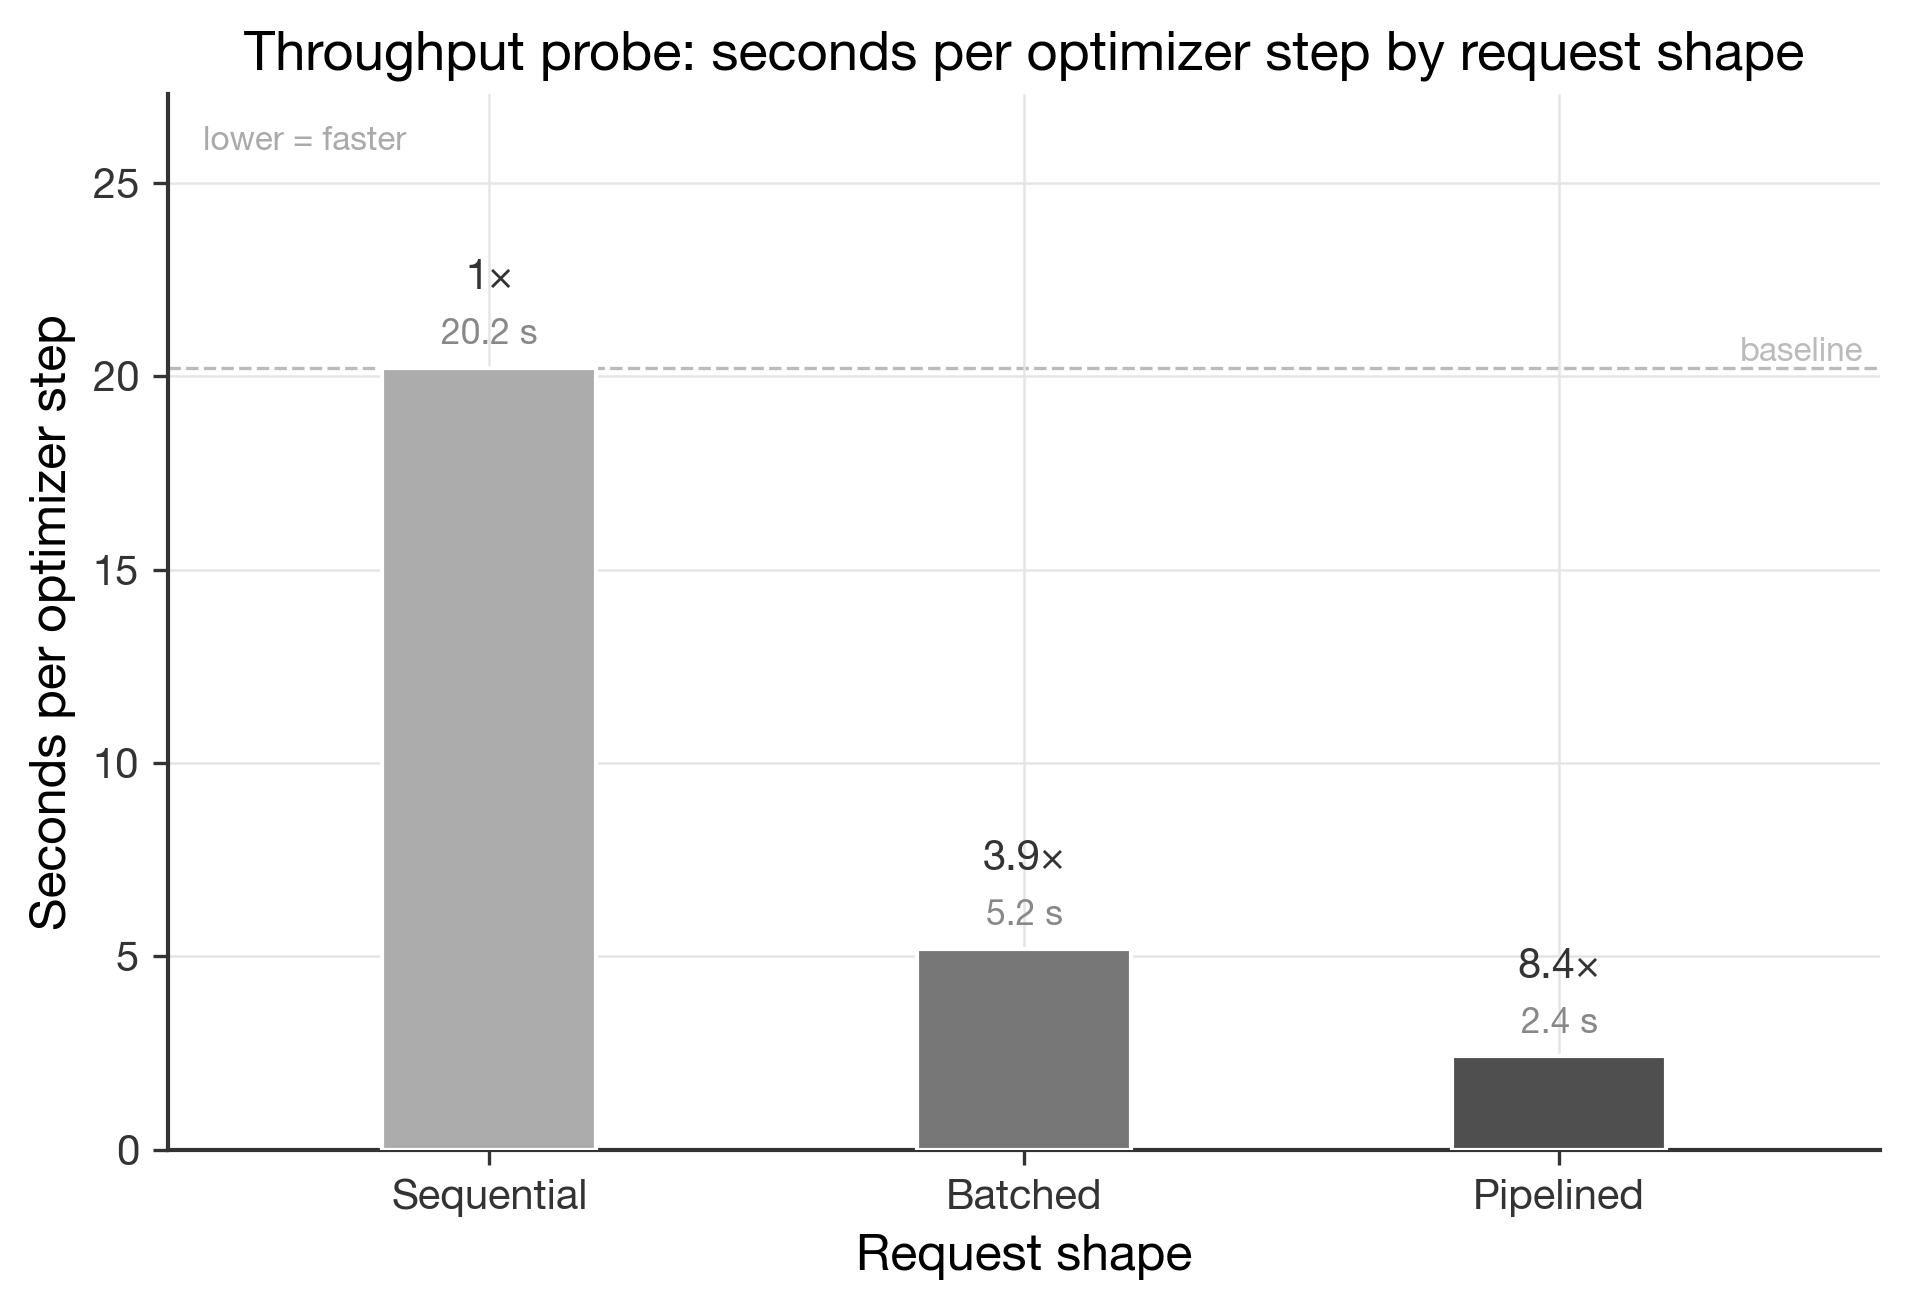
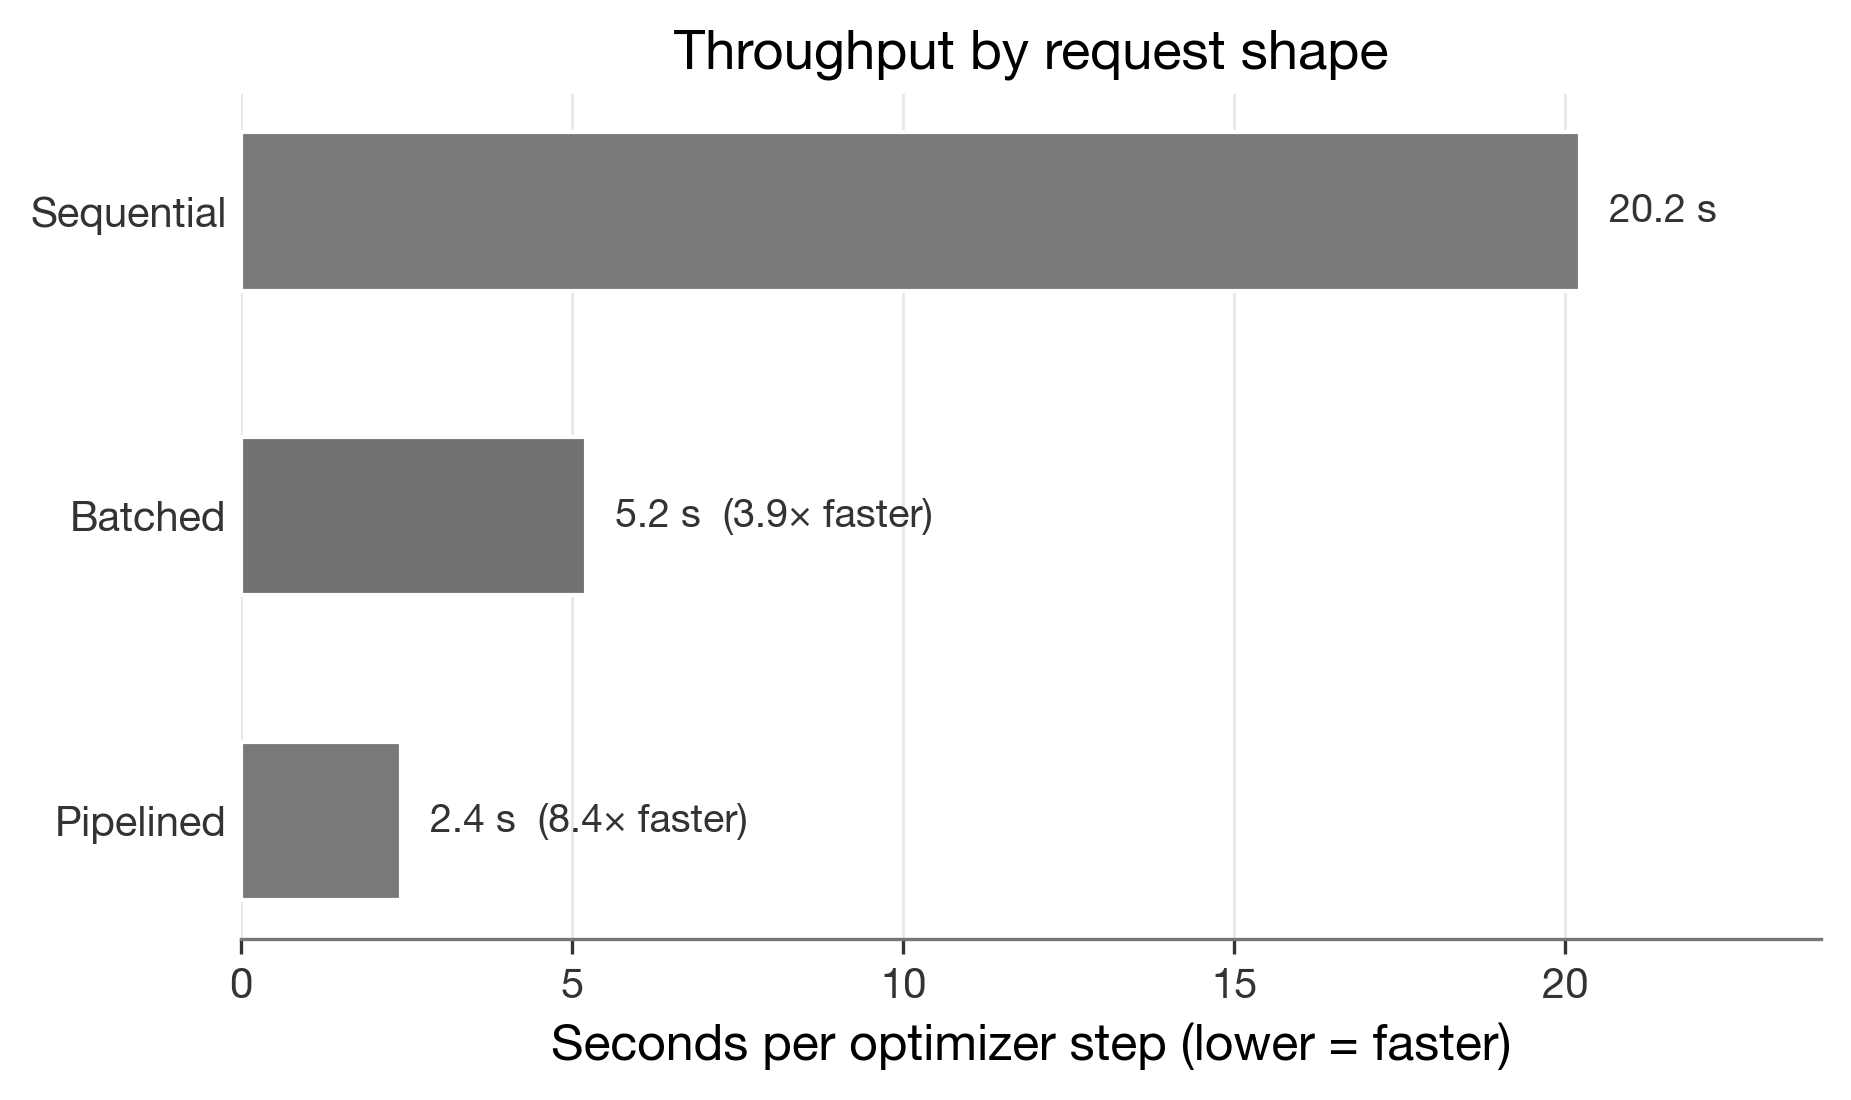
updated Figure 8 throughput chart

diff --git a/figures/fig_08_throughput_probe.py b/figures/fig_08_throughput_probe.py
@@ -15,7 +15,6 @@ from pathlib import Path
 from typing import Any
 
 import matplotlib.pyplot as plt
-from matplotlib.transforms import blended_transform_factory
 
 from figures.helpers import (
     ROOT,
@@ -55,50 +54,44 @@ def build(output_root: Path) -> None:
     if missing:
         raise RuntimeError(f"missing seconds_per_optimizer_step for shapes: {missing}")
 
-    x = list(range(len(REQUEST_SHAPES)))
     values = [secs_per_step[shape] for shape in REQUEST_SHAPES]
     baseline = values[0]
     multipliers = [
         "1×" if (baseline / v) < 1.05 else f"{baseline / v:.1f}×"
         for v in values
     ]
+    labels = ["Sequential", "Batched", "Pipelined"]
+    y = list(range(len(REQUEST_SHAPES)))
 
-    fig, ax = plt.subplots(figsize=(6.5, 4.5))
+    fig, ax = plt.subplots(figsize=(6.3, 3.8))
 
-    ax.axhline(baseline, color="#bbbbbb", linestyle="--", linewidth=0.8, zorder=1)
-
-    bar_colors = ["#74c0dc", "#2d8fbf", "#1a5e8a"]
-    bars = ax.bar(
-        x, values,
-        width=0.40, color=bar_colors, edgecolor="white", linewidth=1.0, zorder=3,
+    bar_colors = ["#d95f02", "#1b9e77", "#7570b3"]
+    bars = ax.barh(
+        y, values,
+        height=0.52, color=bar_colors, edgecolor="white", linewidth=1.0, zorder=3,
     )
     for rect, value, mult in zip(bars, values, multipliers):
-        cx = rect.get_x() + rect.get_width() / 2
+        cy = rect.get_y() + rect.get_height() / 2
+        label = f"{value:.1f} s"
+        if mult != "1×":
+            label = f"{label}  ({mult} faster)"
         ax.annotate(
-            f"{value:.1f} s",
-            xy=(cx, value), xytext=(0, 4), textcoords="offset points",
-            ha="center", va="bottom", fontsize=8.5, color="#888888",
-        )
-        ax.annotate(
-            mult,
-            xy=(cx, value), xytext=(0, 17), textcoords="offset points",
-            ha="center", va="bottom", fontsize=10, color="#333333",
+            label,
+            xy=(value, cy), xytext=(7, 0), textcoords="offset points",
+            ha="left", va="center", fontsize=9.5, color="#333333",
         )
 
-    trans = blended_transform_factory(ax.transAxes, ax.transData)
-    ax.text(0.99, baseline, "baseline", transform=trans,
-            ha="right", va="bottom", color="#bbbbbb", fontsize=8)
-
-    ax.text(0.02, 0.97, "lower = faster", transform=ax.transAxes,
-            fontsize=8, color="#aaaaaa", va="top", ha="left", style="italic")
-
-    ax.set_xticks(x)
-    ax.set_xticklabels(["Sequential", "Batched", "Pipelined"])
-    ax.set_xlim(-0.6, len(REQUEST_SHAPES) - 0.4)
-    ax.set_ylim(0, max(values) * 1.35)
-    ax.set_ylabel("Seconds per optimizer step")
-    ax.set_xlabel("Request shape")
-    ax.set_title("Throughput probe: seconds per optimizer step by request shape")
+    ax.set_yticks(y)
+    ax.set_yticklabels(labels)
+    ax.invert_yaxis()
+    ax.set_xlim(0, max(values) * 1.18)
+    ax.set_xlabel("Seconds per optimizer step (lower = faster)")
+    ax.set_title("Throughput by request shape")
+    ax.grid(axis="y", visible=False)
+    ax.tick_params(axis="y", length=0)
+    ax.spines["left"].set_visible(False)
+    ax.spines["bottom"].set_color("#777777")
+    ax.spines["bottom"].set_linewidth(0.8)
     fig.tight_layout()
 
     plotted_data = [
@@ -124,18 +117,20 @@ def _caption_markdown(secs_per_step: dict[str, float]) -> str:
     single = secs_per_step["single_datum_calls"]
     batched = secs_per_step["batched_datums"]
     pipelined = secs_per_step["batched_datums_pipelined"]
-    return f"""# Figure 8: Throughput probe: seconds per optimizer step by request shape
+    return f"""# Figure 8: Throughput by request shape
 
 ## Caption
 
-Pipelined batched training calls deliver a {single / pipelined:.1f}× throughput improvement over sequential single-datum calls on Qwen3-8B with attention-only LoRA (effective batch size 8). Batching alone — submitting all 8 examples in one API call — accounts for {single / batched:.1f}× of the speedup; pipelining, which submits the next batch before awaiting the prior optimizer step, contributes an additional {batched / pipelined:.1f}× by overlapping communication with computation. Measured wall-clock seconds per optimizer step: sequential {single:.1f} s, batched {batched:.1f} s, pipelined {pipelined:.1f} s. The pipelined shape was adopted for all main training runs.
+Wall-clock seconds per optimizer step for Qwen3-8B attention-only LoRA at effective batch size 8. Batching cuts the step time from {single:.1f} s to {batched:.1f} s, and pipelined batching lowers it to {pipelined:.1f} s ({single / pipelined:.1f}× faster than sequential).
 
 ## Marker encoding
 
 | element | color | shape | what is plotted |
 | --- | --- | --- | --- |
-| bars | `#1f77b4` | filled rectangle | mean wall-clock seconds per optimizer step over 16 probe steps |
-| value labels | `#333333` | text above bar | seconds per optimizer step rounded to two decimals |
+| sequential | `#d95f02` | horizontal rectangle | mean wall-clock seconds per optimizer step over 16 probe steps |
+| batched | `#1b9e77` | horizontal rectangle | mean wall-clock seconds per optimizer step over 16 probe steps |
+| pipelined | `#7570b3` | horizontal rectangle | mean wall-clock seconds per optimizer step over 16 probe steps |
+| value labels | `#333333` | text at bar end | seconds per optimizer step and speedup versus sequential |
 
 ## Source files
 

diff --git a/artifacts/figures/fig_08_throughput_probe/fig_08_throughput_probe.md b/artifacts/figures/fig_08_throughput_probe/fig_08_throughput_probe.md
@@ -1,15 +1,17 @@
-# Figure 8: Throughput probe: seconds per optimizer step by request shape
+# Figure 8: Throughput by request shape
 
 ## Caption
 
-Pipelined batched training calls deliver a 8.4× throughput improvement over sequential single-datum calls on Qwen3-8B with attention-only LoRA (effective batch size 8). Batching alone — submitting all 8 examples in one API call — accounts for 3.9× of the speedup; pipelining, which submits the next batch before awaiting the prior optimizer step, contributes an additional 2.2× by overlapping communication with computation. Measured wall-clock seconds per optimizer step: sequential 20.2 s, batched 5.2 s, pipelined 2.4 s. The pipelined shape was adopted for all main training runs.
+Wall-clock seconds per optimizer step for Qwen3-8B attention-only LoRA at effective batch size 8. Batching cuts the step time from 20.2 s to 5.2 s, and pipelined batching lowers it to 2.4 s (8.4× faster than sequential).
 
 ## Marker encoding
 
 | element | color | shape | what is plotted |
 | --- | --- | --- | --- |
-| bars | `#1f77b4` | filled rectangle | mean wall-clock seconds per optimizer step over 16 probe steps |
-| value labels | `#333333` | text above bar | seconds per optimizer step rounded to two decimals |
+| sequential | `#d95f02` | horizontal rectangle | mean wall-clock seconds per optimizer step over 16 probe steps |
+| batched | `#1b9e77` | horizontal rectangle | mean wall-clock seconds per optimizer step over 16 probe steps |
+| pipelined | `#7570b3` | horizontal rectangle | mean wall-clock seconds per optimizer step over 16 probe steps |
+| value labels | `#333333` | text at bar end | seconds per optimizer step and speedup versus sequential |
 
 ## Source files
 

diff --git a/AGENT_MISTAKES.md b/AGENT_MISTAKES.md
@@ -216,3 +216,18 @@ Initialized on 2026-03-24.
 - occurrence_count: 1
 - evidence:
   - command:proposed `rsync -a \"$src\"/ ...` in checkpoint-staging flow without guarding empty `$src`, which risked copying from `/`
+
+### MISTAKE-20260514-001
+
+- status: active
+- severity: low
+- scope_tags: [code]
+- pattern: used matplotlib vertical bar api with horizontal bar arguments
+- prevention_rule: when changing chart orientation, update both the plotting function and the argument order before running the figure build
+- validation_check: run the edited figure builder and require it to complete without a matplotlib api exception
+- first_seen: 2026-05-14
+- last_seen: 2026-05-14
+- occurrence_count: 1
+- evidence:
+  - file:figures/fig_08_throughput_probe.py:69
+  - command:first fig_08 rebuild failed with `TypeError: Axes.bar() got multiple values for argument 'height'`
